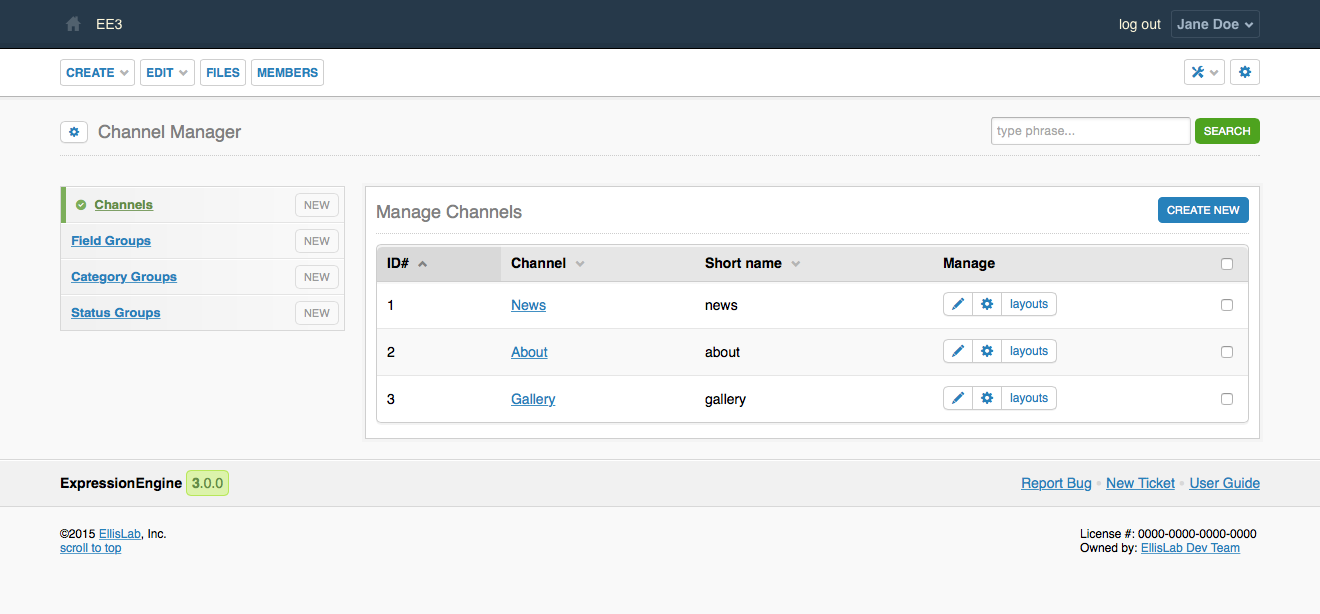
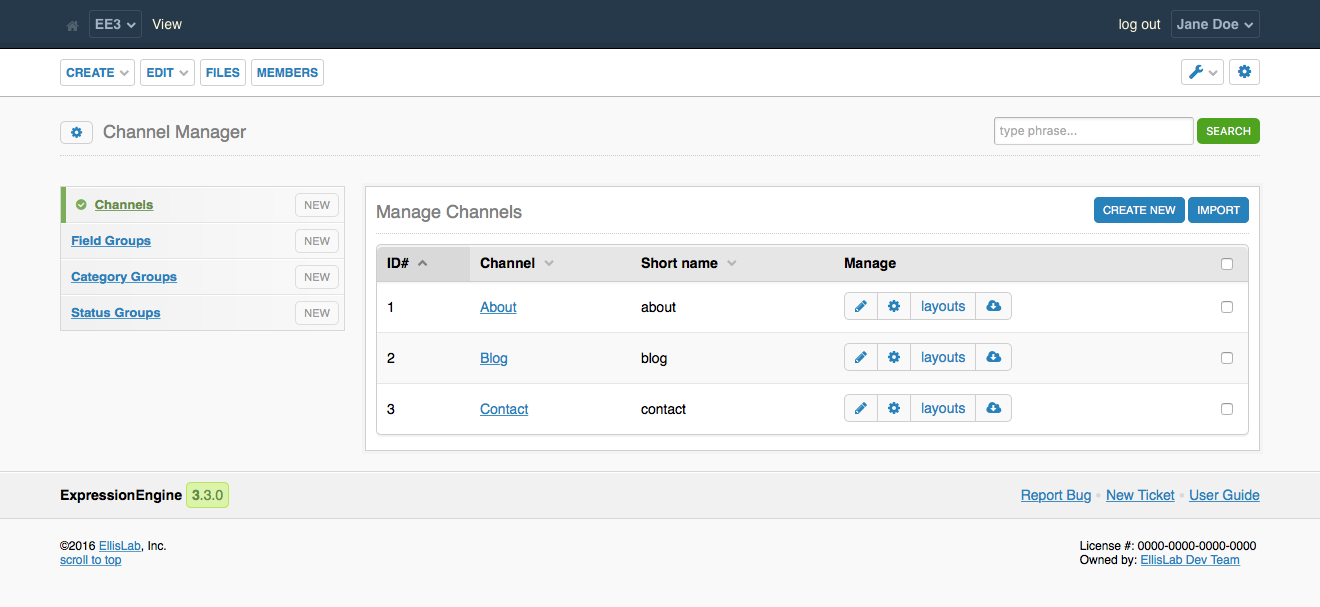
First draft of Channel Set docs.

diff --git a/source/channel/sets.rst b/source/channel/sets.rst
@@ -1,0 +1,127 @@
+############
+Channel Sets
+############
+
+.. versionadded:: 3.3.0
+
+Channel Sets are an easy way for you to save the structure of a Channel and import it elsewhere. The structure of a channel is made up of it's :doc:`/cp/channel/settings`, :doc:`/cp/channel/cat/index`, :doc:`/cp/channel/fields/index`, and :doc:`Status Group </cp/channel/status/index>`. When you :ref:`export your Channel Set <channel_set_export>`, you're provided with a zip file that contains all of the data needed to recreate that same Channel on any other ExpressionEngine installation by using the :doc:`/cp/channel/import` page.
+
+When using Relationships, your Channel Set export will export related Channels and continue following the relationships. So if you have a Game Channel that has a Relationship field that has the Team Channel selected, the Team Channel will also be exported. This continues to the Team Channel as well, if that Channel has a Relationship field that has the Player Channel selected, the Player Channel will be exported.
+
+*********************
+Channel Set Structure
+*********************
+
+Channel Sets are zip files containing the following files::
+
+  ├── channel_set.json
+  └── custom_fields
+      └── <field group name>
+          ├── <custom field name>.<fieldtype>
+          ├── <custom field name>.<fieldtype>
+          └── ...
+
+``"custom_fields"``
+===================
+
+Custom fields are all represented as JSON objects. Each custom field exports it's own properties, but ``label``, ``instructions``, and ``order`` are always inclued. If after exporting you realize you want to order your fields differently, simply set the ``order`` property in the order you want the field to appear in.
+
+.. code:: json
+
+  {
+      "label": "Content",
+      "instructions": "Content for this blog entry.",
+      "order": 1,
+      "search": "y",
+      "ta_rows": 10,
+      "settings": {
+          "field_show_smileys": "n",
+          "field_show_file_selector": "n",
+          "field_show_formatting_btns": "n"
+      }
+  }
+
+.. note:: Only first party fieldtypes are currently supported.
+
+``channel_set.json``
+====================
+
+.. contents::
+ :local:
+ :depth: 2
+
+Your ``channel_set.json`` file ties everything together. It will contain structural data about ``channels``, ``status_groups``, ``category_groups``, ``upload_destinations``, ``config``, and ``template_preferences``.
+
+``channels``
+------------
+
+.. code:: json
+
+  "channels": [
+      {
+          "channel_title": "Blog",
+          "status_group": "Default",
+          "field_group": "blog",
+          "cat_groups": [
+              "Blog"
+          ]
+      }
+  ],
+
+The array of channels will contain objects that represent each Channel. Each Channel has a ``channel_title``, ``status_group``, ``field_group``, and ``cat_groups``, though they can be empty. In addition, you can supply ``title_field_label`` to change the Title Label on the publish page.
+
+``status_groups``
+-----------------
+
+.. code:: json
+
+  "status_groups": [
+      {
+          "name": "Default",
+          "statuses": [
+              {
+                  "name": "Featured",
+                  "highlight": "66ccff"
+              }
+          ]
+      }
+  ],
+
+The array of ``status_groups`` contains objects that represent the related status group. If you're using the "Default" status group, we don't export the "open" or "closed" status, only the additional statuses.
+
+Each object will contain a ``name`` for the Status Group and it will contain an array of ``statuses`` that have objects defining the status that contain the ``status``'s name and *optionally* the ``highlight`` color.
+
+``category_groups``
+-------------------
+
+.. code:: json
+
+ "category_groups": [
+   {
+     "name": "Blog",
+     "categories": [
+       "News",
+       "Personal",
+       "Photos",
+       "Videos",
+       "Music"
+     ]
+   }
+ ],
+
+The array of ``category_groups`` contains a ``name`` for the category group, and an array of ``categories`` representing the group's categories.
+
+.. note:: Nested categories are not currently supported.
+
+``upload_destinations``
+-----------------------
+
+.. code:: json
+
+ "upload_destinations": [
+   {
+     "name": "Blog Images",
+   }
+ ]
+
+In the event that there's a file field that contains a specified upload destination, you'll find an ``upload_destinations`` object. It contains an object representing each upload destination that was related to a file field and that object contains a ``name``.

diff --git a/source/cp/channel/import.rst b/source/cp/channel/import.rst
@@ -1,0 +1,32 @@
+##################
+Channel Set Import
+##################
+
+.. versionadded:: 3.3.0
+
+.. rst-class:: cp-path
+
+**Control Panel Location:** :menuselection:`Developer Tools --> Channel Manager --> Import Channel`
+
+.. Permissions
+
+Permission Restrictions
+-----------------------
+
+* Access settings: Design & Content
+* Channels: Create Channels
+* Channels: Edit Channels
+
+Fields
+------
+
+.. contents::
+  :local:
+  :depth: 1
+
+.. Each Field
+
+File Upload
+~~~~~~~~~~~
+
+The file field for the :doc:`Channel Set </channel/sets>` zip file.

diff --git a/source/cp/channel/index.rst b/source/cp/channel/index.rst
@@ -83,6 +83,11 @@ Create New
 
 This will take you to the :doc:`create form <form>`.
 
+Import
+~~~~~~
+
+This will take you to :doc:`import`.
+
 Channel Links
 ~~~~~~~~~~~~~
 
@@ -107,6 +112,13 @@ layouts
 ^^^^^^^
 
 This will take you to :doc:`layouts/index`.
+
+.. _channel_set_export:
+
+Export
+^^^^^^
+
+This will download a :doc:`Channel Set </channel/sets>`.
 
 Bulk Actions
 ~~~~~~~~~~~~
